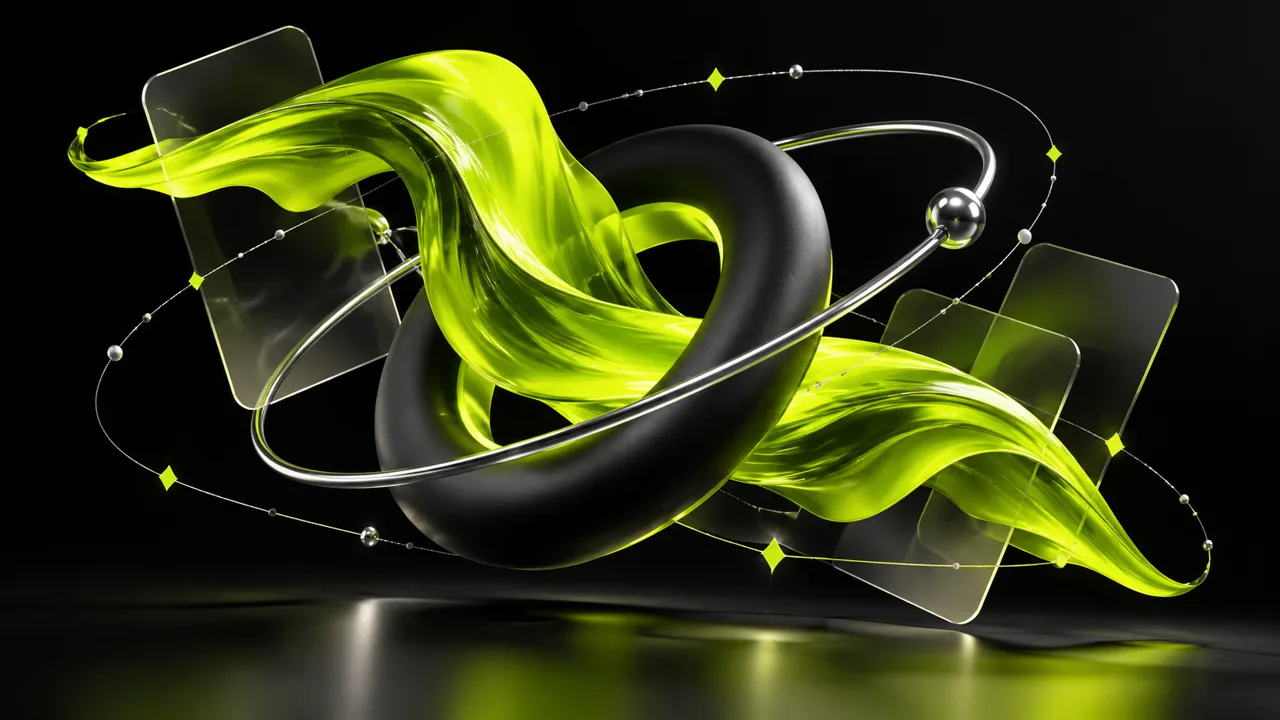
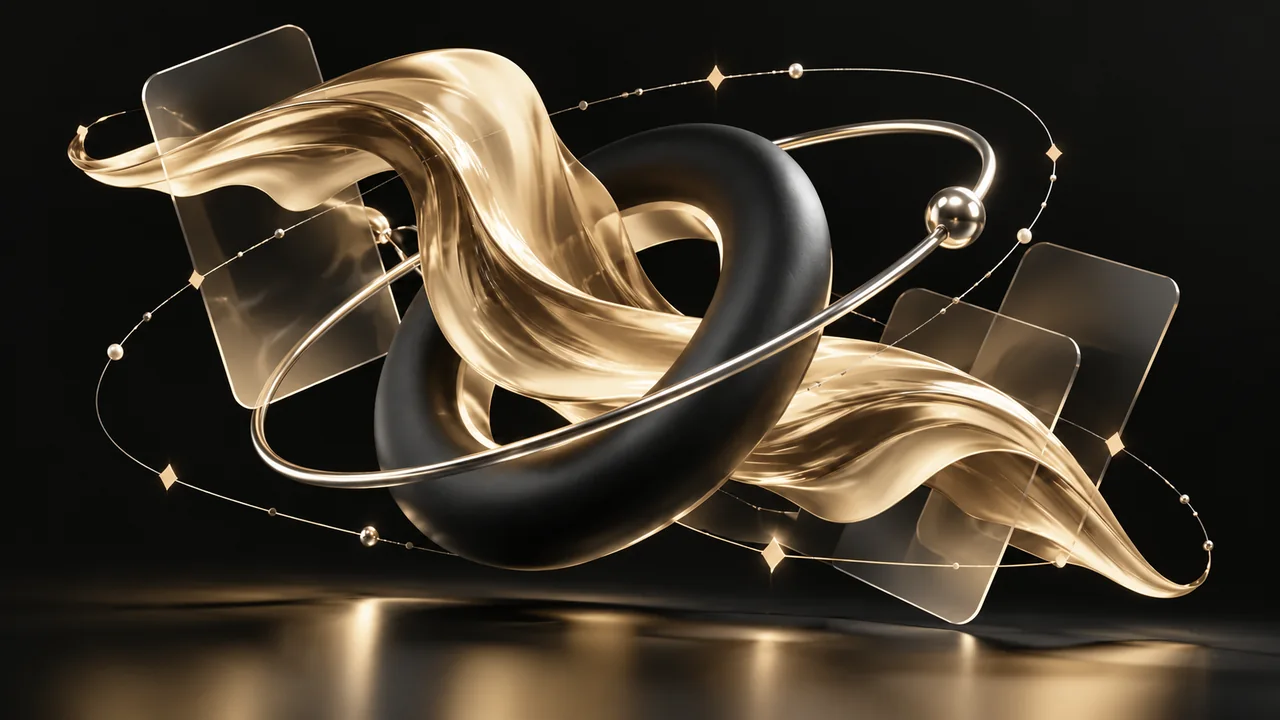
Apply premium obsidian and champagne theme

diff --git a/public/premium.css b/public/premium.css
@@ -1,0 +1,197 @@
+/* PROMARK premium palette: obsidian, warm ivory and satin champagne. */
+:root {
+  color-scheme: dark;
+  --lime: #c9b58a;
+  --studio-lime: #c9b58a;
+  --background: #101110;
+  --surface: #181916;
+  --surface-raised: #20211e;
+  --foreground: #f3efe6;
+  --paper: #f3efe6;
+  --ink: #101110;
+  --muted: #bbb6ab;
+  --line: #3a3934;
+  --champagne: #c9b58a;
+  --champagne-bright: #dfcfaa;
+  --champagne-deep: #806f4f;
+}
+
+body { background: var(--background); color: var(--foreground); }
+::selection { background: var(--champagne); color: var(--background); }
+a:focus-visible,
+button:focus-visible,
+summary:focus-visible,
+input:focus,
+textarea:focus,
+select:focus { outline-color: var(--champagne-bright); }
+
+.site-header {
+  background: color-mix(in srgb, var(--background) 88%, transparent);
+  border-bottom: 1px solid #ffffff0d;
+}
+.logo-frame { background: var(--champagne); }
+.menu-toggle { background: var(--surface-raised); color: var(--foreground); }
+.studio-clock,
+.eyebrow,
+.studio-tag,
+.studio-manifesto,
+.studio-service-index,
+.studio-service p.studio-manifesto,
+.studio-project h3,
+.step,
+.scene-number { color: var(--champagne); }
+.nav-cta { border-color: #6a655b; color: var(--foreground); }
+.nav-cta:hover { border-color: var(--champagne); }
+
+#navigation:before,
+#navigation a:hover,
+.menu-overlay nav a:hover { color: var(--champagne); }
+html.js #navigation.is-open,
+.menu-overlay,
+.contact-overlay,
+dialog { background: #1b1c19f2; border-color: #5a564e; }
+#navigation a,
+.menu-overlay nav a { border-color: #ffffff14; }
+
+.studio-tag { background: #22211d; border: 1px solid #403d36; }
+.hero-light {
+  background: radial-gradient(ellipse at 70% 100%, #c9b58a66, transparent 62%);
+}
+.physical-switch {
+  background: linear-gradient(125deg, #aaa397, #34322f 22%, #0d0e0d 55%, #777166);
+  border-color: #7d786f;
+  box-shadow: 15px 20px 0 #1b1b19, 20px 30px 0 #34332f, 30px 45px 40px #000b, inset 0 2px 2px #d5d0c8;
+}
+.switch-track {
+  background: linear-gradient(120deg, #0b0c0b, #22211e);
+  box-shadow: inset 3px 5px 15px #000, inset -1px -1px 3px #777168;
+}
+.switch-orb {
+  background: radial-gradient(circle at 32% 25%, #fff9e8, #c9b58a 54%, #806f4f);
+  box-shadow: 0 0 32px #c9b58a52, inset 2px 2px 4px #fff9, inset -5px -8px 10px #665638;
+}
+.switch-engraving { color: #8a8377; }
+.switch-caption { color: #c8c1b4; }
+
+.studio-intro>p:last-of-type,
+.studio-heading>p:last-child,
+.studio-project-copy>p:not(.studio-tag),
+.studio-service p,
+.craft-grid article>p,
+.lede,
+.note,
+.faq-section>div>p:not(.eyebrow),
+.service-definition p,
+.service-questions details>p,
+.privacy-note p,
+.dialog-details p,
+.project>p,
+.contact-layout aside>p:not(.eyebrow),
+.contact-location p { color: var(--muted); }
+
+.craft-art {
+  border-color: #45423b;
+  background-image: linear-gradient(#ffffff0a 1px, transparent 1px), linear-gradient(90deg, #ffffff0a 1px, transparent 1px);
+}
+.craft-art i { border-color: #c9c2b5; }
+.craft-grid article:hover i { border-color: var(--champagne-bright); }
+
+.studio-service { border-color: var(--line); }
+.studio-service li { border-color: #34322d; color: #d0cbc1; }
+.process article { border-color: #454139; background: #151613; }
+.process .step { color: var(--champagne); }
+.faqs details,
+.service-detail,
+.filters,
+.deliverables li,
+.footer-bottom,
+.footer-top { border-color: var(--line); }
+
+.button.primary,
+.button.dark,
+.cta .dark,
+.filters .active,
+.dialog-close,
+.skip-link {
+  background: var(--champagne);
+  color: var(--background);
+}
+.button.primary:hover,
+.button.dark:hover,
+.cta .dark:hover,
+.dialog-close:hover { background: var(--champagne-bright); color: var(--background); }
+.button.text { background: #ffffff08; border-color: #ffffff1a; color: var(--foreground); }
+.button.text:hover { background: #2a2924; border-color: #6b655a; }
+.inline-link { border-color: #6a655b; }
+.round-arrow { border-color: #6a655b; }
+.service-row:hover .round-arrow,
+.project-open:hover .round-arrow { background: var(--champagne); border-color: var(--champagne); color: var(--background); }
+
+.studio-project .device-stage,
+.cta { background: radial-gradient(ellipse at bottom right, #c9b58a24, transparent 68%); }
+.studio-project .browser-device,
+.browser-device { border-color: #6d675c; box-shadow: 10px 16px 0 #292923, 20px 30px 45px #000; }
+.browser-chrome { background: #211f1b; border-color: #4b463d; color: #d4cec2; }
+.window-dots i { background: #766e61; }
+.window-dots i:first-child { background: var(--champagne); }
+.device-stage { background: #171714; border-color: #3f3c35; }
+.phone-device { background: #171714; border-color: #777064; box-shadow: 7px 9px 0 #302d27, 13px 21px 22px #0007; }
+.phone-speaker,
+.phone-home { background: #8e8576; }
+.card-edge { background: var(--champagne); }
+.reactive-project:hover .device-stage,
+.reactive-project:focus-within .device-stage { border-color: var(--champagne-deep); }
+
+.studio-feature { background: var(--champagne); color: var(--background); }
+.studio-feature .eyebrow { color: var(--background); }
+.feature-browser { border-color: #2a2926; }
+.feature-chrome { background: #2a2926; color: var(--champagne-bright); }
+
+.preview-toggle,
+.hero-preview-toggle {
+  border-color: #746c5f;
+  background: #1c1c18;
+  color: var(--champagne-bright);
+}
+.preview-toggle:hover,
+.hero-preview-toggle:hover { border-color: var(--champagne); }
+.preview-toggle[aria-pressed=true],
+.hero-preview-toggle[aria-pressed=true] { background: var(--champagne); color: var(--background); }
+
+.form-notice { background: #272319; border-left-color: var(--champagne); color: #e1d9c9; }
+.field input,
+.field select,
+.field textarea,
+.contact-overlay input,
+.contact-overlay textarea,
+.contact-overlay select {
+  background: #20211e;
+  color: var(--foreground);
+  border-color: #666057;
+}
+.field input::placeholder,
+.field textarea::placeholder { color: #aaa397; }
+.field select option { background: #20211e; color: var(--foreground); }
+
+.review-banner { background: #211e17; border-color: #544b39; color: #d9d0c0; }
+.review-banner a { color: var(--champagne-bright); }
+
+footer { background: var(--champagne); color: var(--background); }
+footer .footer-contacts a,
+footer a,
+footer .footer-top p { color: var(--background); }
+.footer-top,
+.footer-bottom { border-color: #1011104a; }
+.footer-bottom { color: #2d2a24; }
+.footer-wordmark .logo-frame { background: var(--champagne); }
+
+.motion-replay { border-color: #756d60; color: var(--champagne-bright); }
+.motion-rule { background: var(--champagne); }
+.motion-art { background: #171714; }
+.motion-studio { background: #11120f; }
+.motion-web { background: #1b1915; }
+.kinetic-line:last-child { color: var(--champagne); }
+
+@supports not (background: color-mix(in srgb, black, transparent)) {
+  .site-header { background: #101110ed; }
+}
